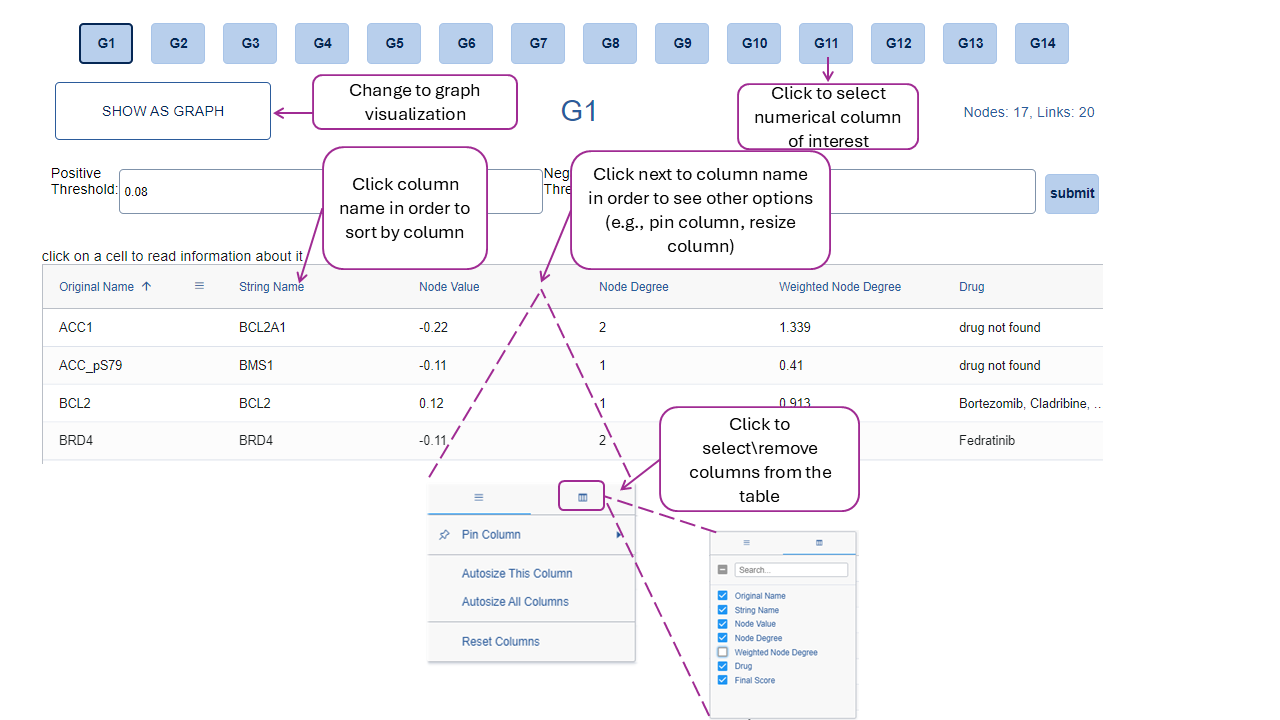
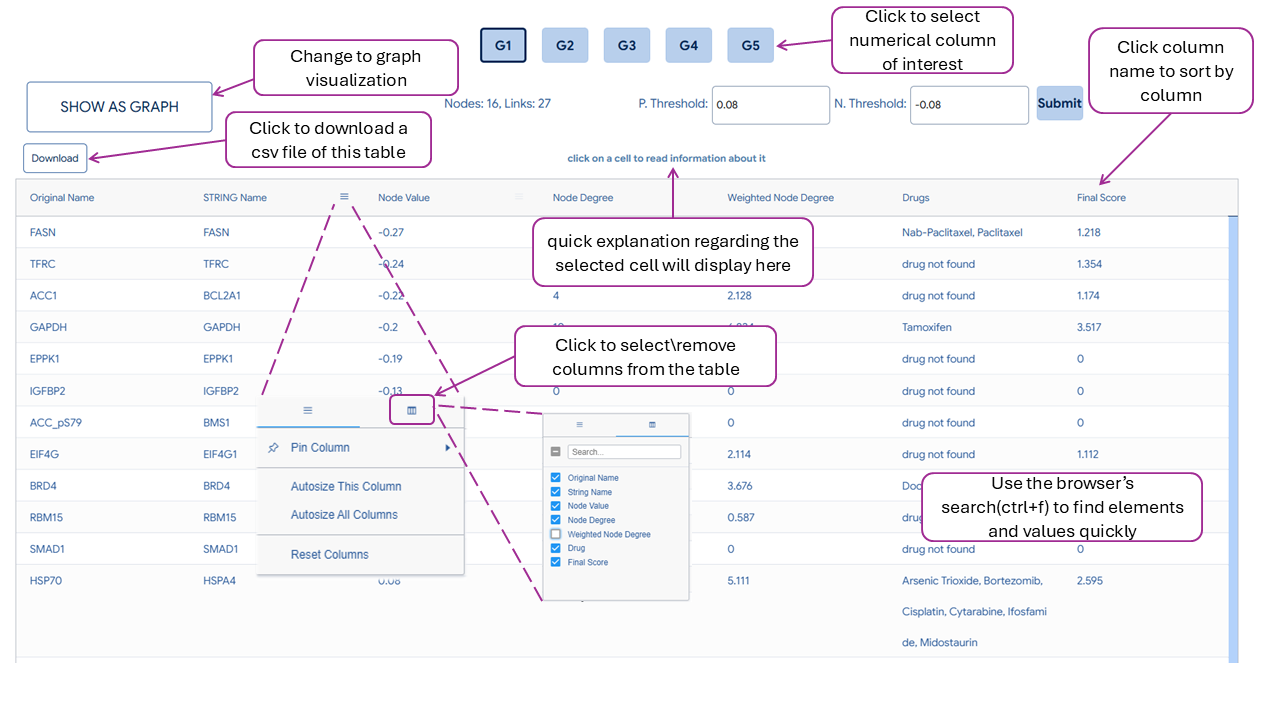
UI fix in saveGraphs, tutorial refactoring for new version + fix functional bug on protein names match + Table fix

diff --git a/frontend/src/components/Table.tsx b/frontend/src/components/Table.tsx
@@ -1,7 +1,7 @@
 import { FC, useEffect, useRef, useState } from "react";
 import { AgGridReact } from "ag-grid-react";
 import { SortChangedEvent ,GridReadyEvent, ColDef } from 'ag-grid-community';
-
+import "ag-grid-enterprise";
 import "ag-grid-community/dist/styles/ag-grid.css";
 import "ag-grid-community/dist/styles/ag-theme-alpine.css";
 import "../styles/Table.css";
@@ -14,7 +14,6 @@ interface ColumnConfig {
   type: "string" | "number";
   explanation: string;
   flex: number;
-  tooltipField?: string;
   cellRenderer?: string;
 }
 
@@ -58,8 +57,7 @@ const columns: { [key: string]: ColumnConfig } = {
     value: (node: ICustomNode) => node.drug.length !== 0 ? node.drug.map((d) => d.drugName).join(", ") : "drug not found",
     type: "string",
     explanation: "Drug targeting this node (see more in top bar)",
-    flex: 3,
-    tooltipField: "Drugs",
+    flex: 1,
     cellRenderer: "expandableCell",
   },
 
@@ -85,9 +83,11 @@ const TableComponent: FC<{data: ICustomGraphData}> = ({ data }) => {
   const [columnDefs] = useState<ColDef[]>(
     Object.entries(columns).map(([key, col]) => ({
       field: key,
-      flex: col.flex,
-      tooltipField: col.tooltipField,
+      // flex: 1,
+      // tooltipField: col.tooltipField,
       cellRenderer: col.cellRenderer,
+      wrapText: true,        // REQUIRED
+      autoHeight: true,      // REQUIRED
     }))
   );
 
@@ -139,7 +139,7 @@ const TableComponent: FC<{data: ICustomGraphData}> = ({ data }) => {
     console.log("onGridReady\n");
     e.columnApi.applyColumnState({state : state.sortTable});
     console.log("after applay", e.columnApi.getColumnState());
-    // e.api.sizeColumnsToFit();
+    e.api.sizeColumnsToFit();
   };
 
   const downloadTable = () => {
@@ -180,32 +180,40 @@ const TableComponent: FC<{data: ICustomGraphData}> = ({ data }) => {
         onCellClicked={(event) => updateExplanationText(event.colDef.field)}
         enableBrowserTooltips={true}
         components={{
-          expandableCell: ExpandableCell,
+          twoLineCell: TwoLineCell,
         }}
       />
     </div>
   );
 };
 
-const ExpandableCell = (props: any) => {
-  const [expanded, setExpanded] = useState(true);
 
+const TwoLineCell = (props: any) => {
   return (
     <div
-      // onClick={() => setExpanded((e) => !e)}
-      style={{
-        whiteSpace: expanded ? "normal" : "nowrap",
-        overflow: "hidden",
-        textOverflow: expanded ? "clip" : "ellipsis",
-        cursor: "pointer",
-        lineHeight: "1.4",
-        userSelect: "text",
-      }}
-      title={!expanded ? props.value : undefined}
+      className="two-line-cell"
+      title={props.value}   // full text on hover
     >
       {props.value}
     </div>
   );
 };
+// const ExpandableCell = (props: any) => {
+//   return (
+//     <div
+//       style={{
+//         whiteSpace: "nowrap",
+//         overflow: "hidden",
+//         textOverflow: "ellipsis",
+//         cursor: "pointer",
+//         lineHeight: "1.4",
+//         userSelect: "text",
+//       }}
+//       title={props.value}
+//     >
+//       {props.value}
+//     </div>
+//   );
+// };
 
 export default TableComponent;

diff --git a/frontend/src/steps/ResultS.tsx b/frontend/src/steps/ResultS.tsx
@@ -105,18 +105,17 @@ const Result: FC<IStepProps> = ({ step, goNextStep }) => {
         const ids_arr = state.proteinsNames || [];
         const idsList: string[] = [];
         const stringNames: string[] = [];
+        const proteins: string[] = [];
 
         let values_map: { [key: string]: number } = {};
         for (let i = 0; i < values_arr.length; i++) {
           values_map[ids_arr[i]] = values_arr[i];
         }
 
-        Object.keys(state.namesStringMap).forEach((orgName) => {
-          const map = state.namesStringMap[orgName];
-          if (map) {
-            idsList.push(map.stringId);
-            stringNames.push(map.stringName);
-          }
+        Object.entries(state.namesStringMap).forEach(([orgName, { stringName, stringId}]) => {
+          idsList.push(stringId);
+          stringNames.push(stringName);
+          proteins.push(orgName);
         });
 
         const body = {
@@ -124,7 +123,7 @@ const Result: FC<IStepProps> = ({ step, goNextStep }) => {
           thresh_pos: state.thresholds[clickedVector][0],//can be changed to an array and set for each of the G's.
           thresh_neg: state.thresholds[clickedVector][1],//^
           score_thresh: state.scoreThreshold,
-          proteins: state.proteinsNames,
+          proteins: proteins,
           ids: idsList,
           string_names: stringNames,
         };
@@ -142,6 +141,7 @@ const Result: FC<IStepProps> = ({ step, goNextStep }) => {
   const handleJsonGraphData = (jsonString: string) => {
     const tempGraphData: ICustomGraphData = JSON.parse(jsonString);
     setGraphData(tempGraphData);
+    console.log("graph data: ", tempGraphData);
     actions.updateIsLoading({ isLoading: false });
   };
 

diff --git a/frontend/src/pages/Tutorial.tsx b/frontend/src/pages/Tutorial.tsx
@@ -359,7 +359,45 @@ const Tutorial: FC = () => {
             A summary of the website's browser compatibility, specifying the
             checked version per OS and browser:
           </p>
-          <img className="t-img" src={browser}  alt="browser"/>
+          <table className="browser-support">
+            <thead>
+              <tr>
+                <th>OS</th>
+                <th>Version</th>
+                <th>Chrome</th>
+                <th>Edge</th>
+                <th>Firefox</th>
+                <th>Safari</th>
+              </tr>
+            </thead>
+            <tbody>
+              <tr>
+                <td>Windows</td>
+                <td>10/11</td>
+                <td>143</td>
+                <td>143</td>
+                <td>145</td>
+                <td>n/a</td>
+              </tr>
+              <tr>
+                <td>MacOS</td>
+                <td>Sonoma</td>
+                <td>143</td>
+                <td>143</td>
+                <td>n/a</td>
+                <td>17.3</td>
+              </tr>
+              <tr>
+                <td>Linux</td>
+                <td>PopOS</td>
+                <td>143</td>
+                <td>n/a</td>
+                <td>n/a</td>
+                <td>n/a</td>
+              </tr>
+            </tbody>
+          </table>
+          {/* <img className="t-img" src={browser}  alt="browser"/> */}
         </div>
       </div>
     </div>

diff --git a/frontend/src/steps/OthersS.tsx b/frontend/src/steps/OthersS.tsx
@@ -32,40 +32,6 @@ const OthersS: FC<IStepProps> = ({ step, goNextStep }) => {
   }, []);
 
   const onSubmit = () => {
-    console.log(state.namesStringMap);
-
-    const idsList: string[] = [];
-    const stringNames: string[] = [];
-
-    Object.keys(state.namesStringMap).forEach((orgName) => {
-      const map = state.namesStringMap[orgName];
-      if (map) {
-        idsList.push(map.stringId);
-        stringNames.push(map.stringName);
-      }
-    });
-
-    const body = JSON.stringify({
-      proteins: state.proteinsNames,
-      ids: idsList,
-      string_names: stringNames,
-    });
-
-    console.log("body of users request: ");
-    console.log({
-      proteins: state.proteinsNames,
-      ids: idsList,
-      string_names: stringNames,
-    });
-
-    actions.updateIsLoading({ isLoading: true });
-    // makePostRequest(body, "user", handleJsonResponse);
-    handleJsonResponse("");
-  };
-
-  const handleJsonResponse = (jsonString: string) => {
-    // const uidJson: IUidJson = JSON.parse(jsonString);
-    // actions.updateUuid({ uuid: uidJson.uuid });
     goNextStep();
   };
 

diff --git a/frontend/src/components/Cytoscapejs.tsx b/frontend/src/components/Cytoscapejs.tsx
@@ -153,11 +153,15 @@ const CytoscapejsComponentself = forwardRef<HTMLDivElement, IGraphProps>(({graph
 
       cyRef.current.on("click", "node", (event) => {
         const node = event.target;
-        const clickedNode = graphData.nodes.find(
-          (n: ICustomNode) => n.id === node.id()
-        );
+        console.log("clicked node", node.id());
+        console.log("graph data nodes", graphData.nodes);
+        const clickedNode = (graphData.nodes as ICustomNode[]).find((n: ICustomNode) => n.id === node.id());
+        // const clickedNode = graphData.nodes.find(
+        //   (n: ICustomNode) => n.id === node.id()
+        // );
+        console.log("clicked node", clickedNode);
+        setSelectedNode({...clickedNode} as ICustomNode);
         setOpenPanel(true);
-        setSelectedNode(clickedNode);
       });
 
       try {

diff --git a/frontend/src/styles/Table.css b/frontend/src/styles/Table.css
@@ -31,9 +31,9 @@
   justify-self: center;  /* perfectly centered */
 }
 
-.ag-theme-alpine .ag-cell, .ag-theme-alpine .ag-full-width-row .ag-cell-wrapper.ag-row-group{
+/* .ag-theme-alpine .ag-cell, .ag-theme-alpine .ag-full-width-row .ag-cell-wrapper.ag-row-group{
   overflow-x: auto !important;
-}
+} */
 
 /* .ag-cell .ag-cell-not-inline-editing .ag-cell-normal-height .ag-cell-value{
   height: 50px;
@@ -41,4 +41,18 @@
 
 .ag-cell {
   user-select: text;
+}
+
+.two-line-cell {
+  display: -webkit-box;
+  -webkit-line-clamp: 2;      /* limit to 2 lines */
+  -webkit-box-orient: vertical;
+  overflow: hidden;
+  line-height: 1.4;
+  white-space: normal;        /* MUST be normal */
+  word-break: break-word;
+  cursor: text;
+  user-select: text;
+  align-items: center;
+  /* justify-content: center; */
 }

diff --git a/frontend/src/styles/Tutorial.css b/frontend/src/styles/Tutorial.css
@@ -71,3 +71,27 @@
     font-size: var(--medium-text);
   /* list-style-position: inside; */
 }
+
+/* browser table */
+
+.browser-support {
+  border-collapse: collapse;
+  width: 80%;
+  font-size: 14px;
+}
+
+.browser-support th,
+.browser-support td {
+  border: 1px solid #ddd;
+  padding: 8px 12px;
+  text-align: left;
+}
+
+.browser-support thead th {
+  background-color: #f3f3f3;
+  font-weight: 600;
+}
+
+.browser-support td {
+  background-color: #fff;
+}

diff --git a/frontend/src/styles/SaveGraphs.css b/frontend/src/styles/SaveGraphs.css
@@ -59,7 +59,7 @@
     text-align: center;
     justify-content: center;
     align-items: center;
-    height: 6em;
+    height: 70px;
     overflow-y: hidden;
 }
 
